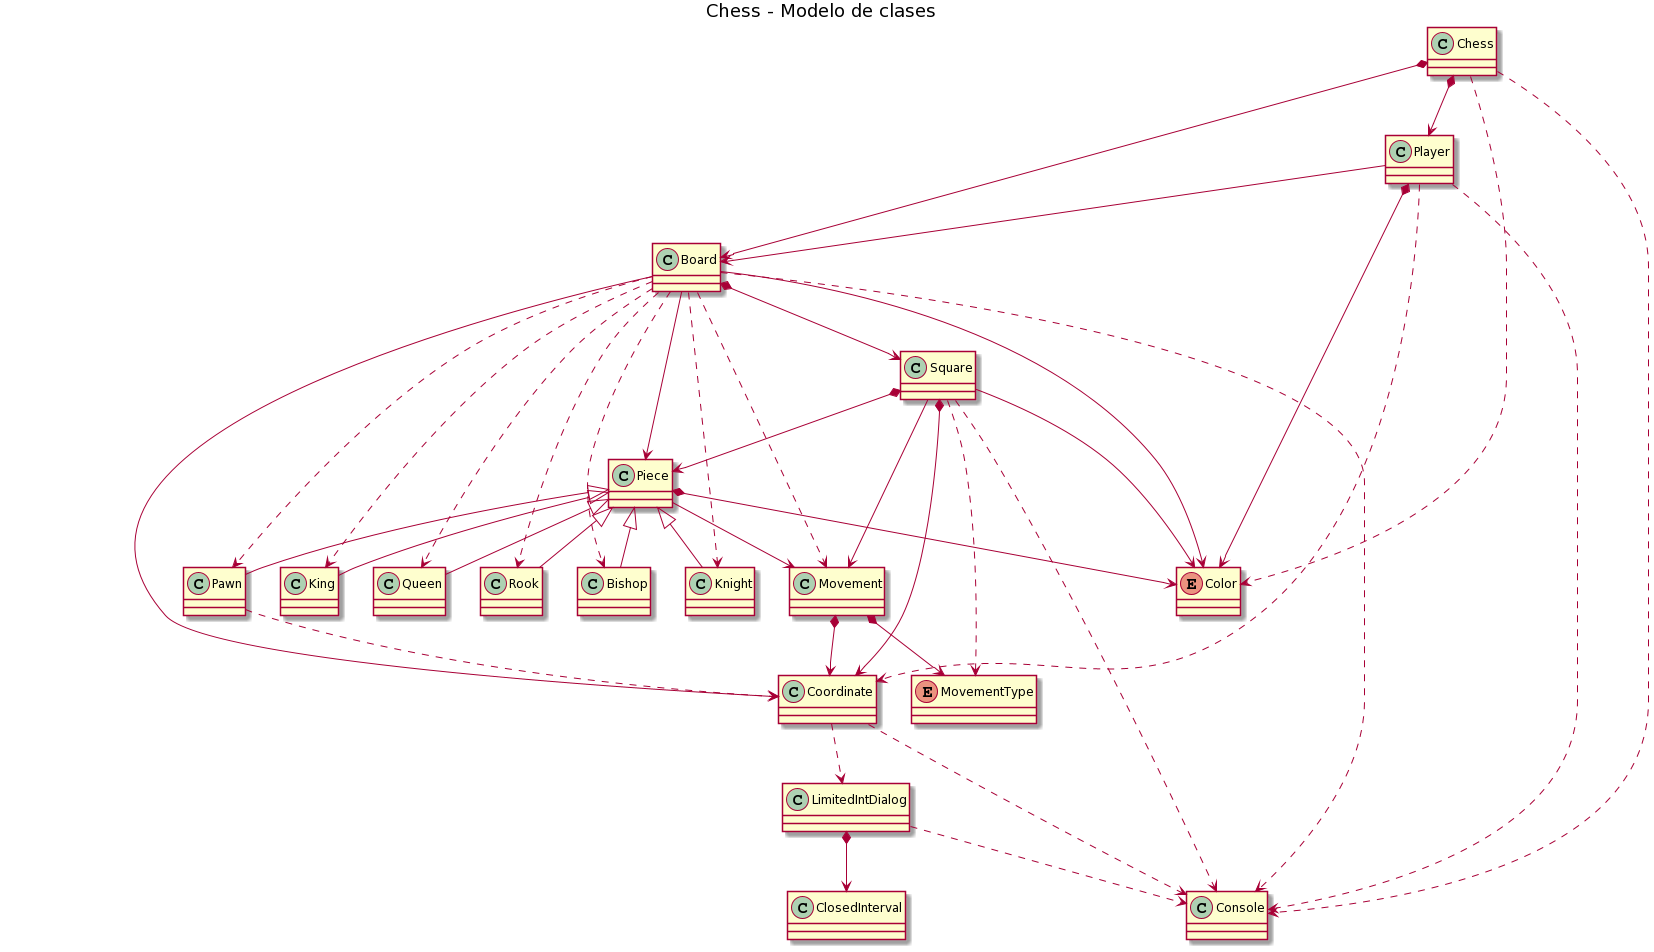
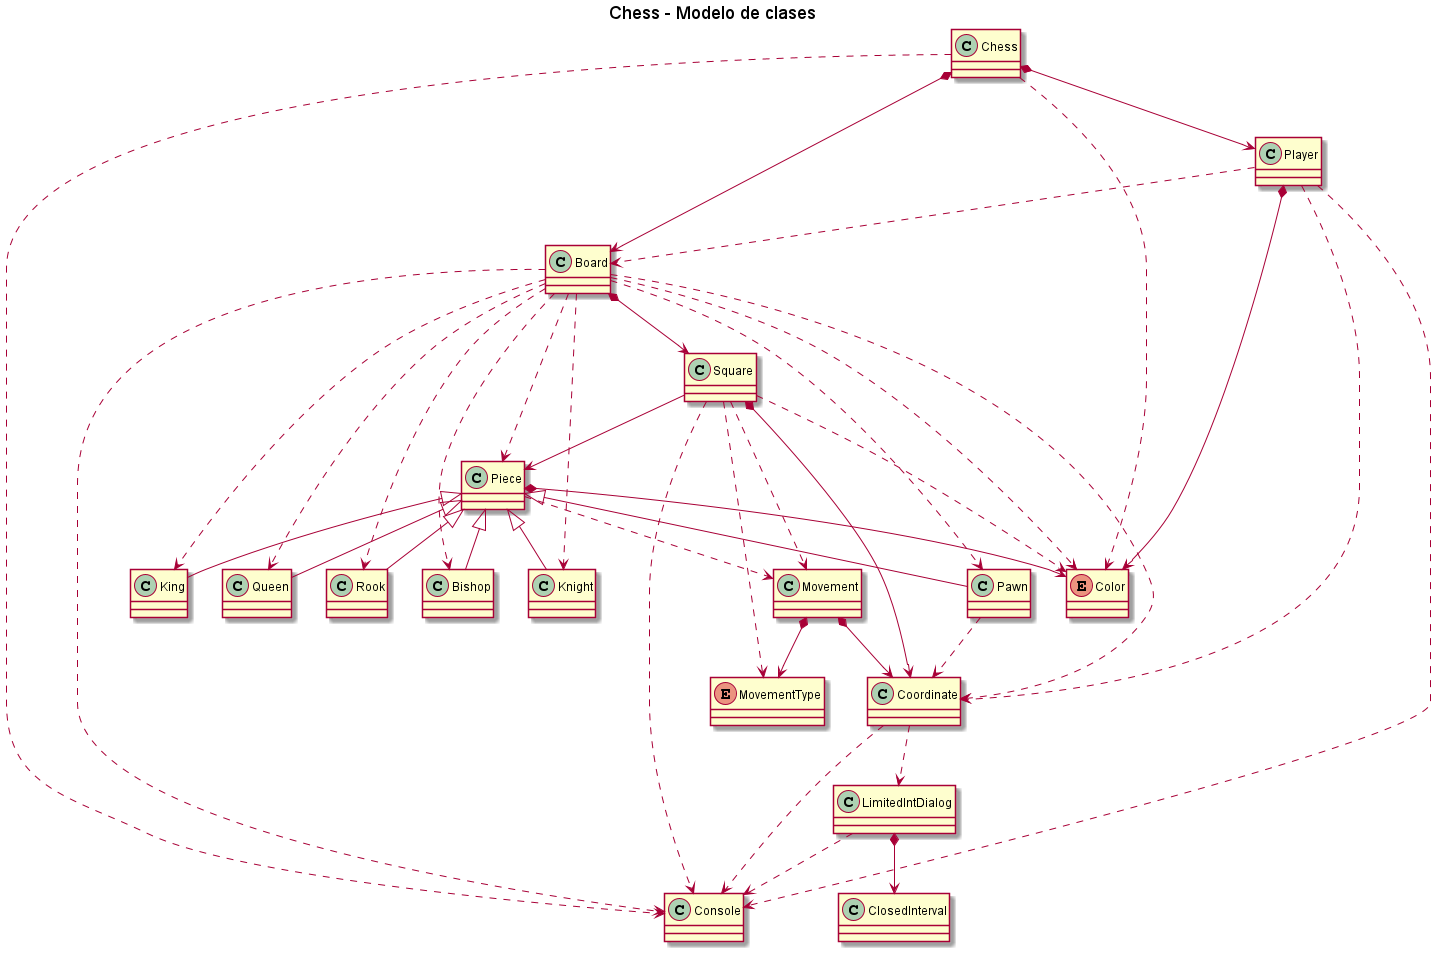
Movement sólo disponible desde Square

diff --git a/chess/src/main/java/es/escuelaIt/masterProgramacion/poo/Square.java b/chess/src/main/java/es/escuelaIt/masterProgramacion/poo/Square.java
@@ -1,5 +1,7 @@
 package es.escuelaIt.masterProgramacion.poo;
 
+import java.util.List;
+
 import es.escuelaIt.masterProgramacion.poo.utils.Console;
 
 public class Square {
@@ -42,21 +44,53 @@ public class Square {
 		return this.piece == null;
     }
     
-    public boolean isValidMovement(Square square, Movement movement) {
+    public boolean isValidMovement(Square square) {
         assert square != null;
-        assert movement != null;
+        Movement movement = null;
         if (square.isEmpty()) {
-            movement.setType(MovementType.EMPTY_SQUARE);
+            movement = this.createEmptyMovement(square);
         } else {
             if (!square.piece.isColor(this.piece)) {
-                movement.setType(MovementType.CAPTURE);
+                movement = this.createCaptureMovement(square);
             } else {
                 return false;
             }
         }
         return this.piece.isValidMovement(movement);
     }
+
+    private Movement createEmptyMovement(Square square) {
+        assert square != null;
+        assert square.isEmpty();
+        return this.createMovement(square, MovementType.EMPTY_SQUARE);
+    }
+
+    private Movement createCaptureMovement(Square square) {
+        assert square != null;
+        assert !square.piece.isColor(this.piece);
+        return this.createMovement(square, MovementType.CAPTURE);
+    }
+
+    private Movement createMovement(Square square, MovementType movementType) {
+        assert square != null;
+        return new Movement(this.getCoordinate(), square.getCoordinate(), movementType);
+    }
     
+    private Movement createMovement(Square square) {
+        assert square != null;
+        assert square.isEmpty() || !square.piece.isColor(this.piece);
+        if (square.isEmpty()) {
+            return this.createEmptyMovement(square);
+        }
+        return this.createCaptureMovement(square);
+    }
+
+	public List<Coordinate> getPath(Square square) {
+        assert square != null;
+        assert this.isValidMovement(square);
+        return this.createMovement(square).getPath();
+    }
+
     public void move(Square square) {
         assert square != null;
         square.piece = this.piece;
@@ -68,6 +102,10 @@ public class Square {
             return this.piece.isKing(color);
         }
 		return false;
+    }
+    
+    private Coordinate getCoordinate() {
+        return this.coordinate;
     }
 
     public void setPiece(Piece piece) {

diff --git a/chess/src/main/java/es/escuelaIt/masterProgramacion/poo/Movement.java b/chess/src/main/java/es/escuelaIt/masterProgramacion/poo/Movement.java
@@ -13,13 +13,13 @@ public class Movement {
 
     private List<Coordinate> path;
 
-    public Movement(Coordinate origin, Coordinate destination) {
+    public Movement(Coordinate origin, Coordinate destination, MovementType type) {
         assert origin != null;
         assert destination != null;
         this.origin = origin;
         this.destination = destination;
         this.path = new ArrayList<>();
-        this.type = MovementType.INVALID;
+        this.type = type;
     }
 
 	public int getDistance() {
@@ -61,11 +61,5 @@ public class Movement {
 
 	public List<Coordinate> getPath() {
         return this.path;
-	}
-
-	public void setType(MovementType type) {
-		assert type != null;
-		assert type == MovementType.CAPTURE || type == MovementType.EMPTY_SQUARE;
-        this.type = type;
 	}
 }

diff --git a/chess/src/main/java/es/escuelaIt/masterProgramacion/poo/Board.java b/chess/src/main/java/es/escuelaIt/masterProgramacion/poo/Board.java
@@ -61,9 +61,10 @@ public class Board {
 	public boolean isValidMovement(Coordinate origin, Coordinate destination) {
         assert origin != null;
         assert destination != null;
-        Movement movement = new Movement(origin, destination);
-        if (this.getSquare(origin).isValidMovement(this.getSquare(destination), movement)) {
-            return this.isEmptyPath(movement.getPath());
+        Square originSquare = this.getSquare(origin);
+        Square destinationSquare = this.getSquare(destination);
+        if (originSquare.isValidMovement(destinationSquare)) {
+            return this.isEmptyPath(originSquare.getPath(destinationSquare));
         }
         return false;
     }

diff --git a/chess/src/main/java/es/escuelaIt/masterProgramacion/poo/MovementType.java b/chess/src/main/java/es/escuelaIt/masterProgramacion/poo/MovementType.java
@@ -3,7 +3,6 @@ package es.escuelaIt.masterProgramacion.poo;
 public enum MovementType {
 
     EMPTY_SQUARE,
-    CAPTURE,
-    INVALID;
+    CAPTURE;
 
 }
